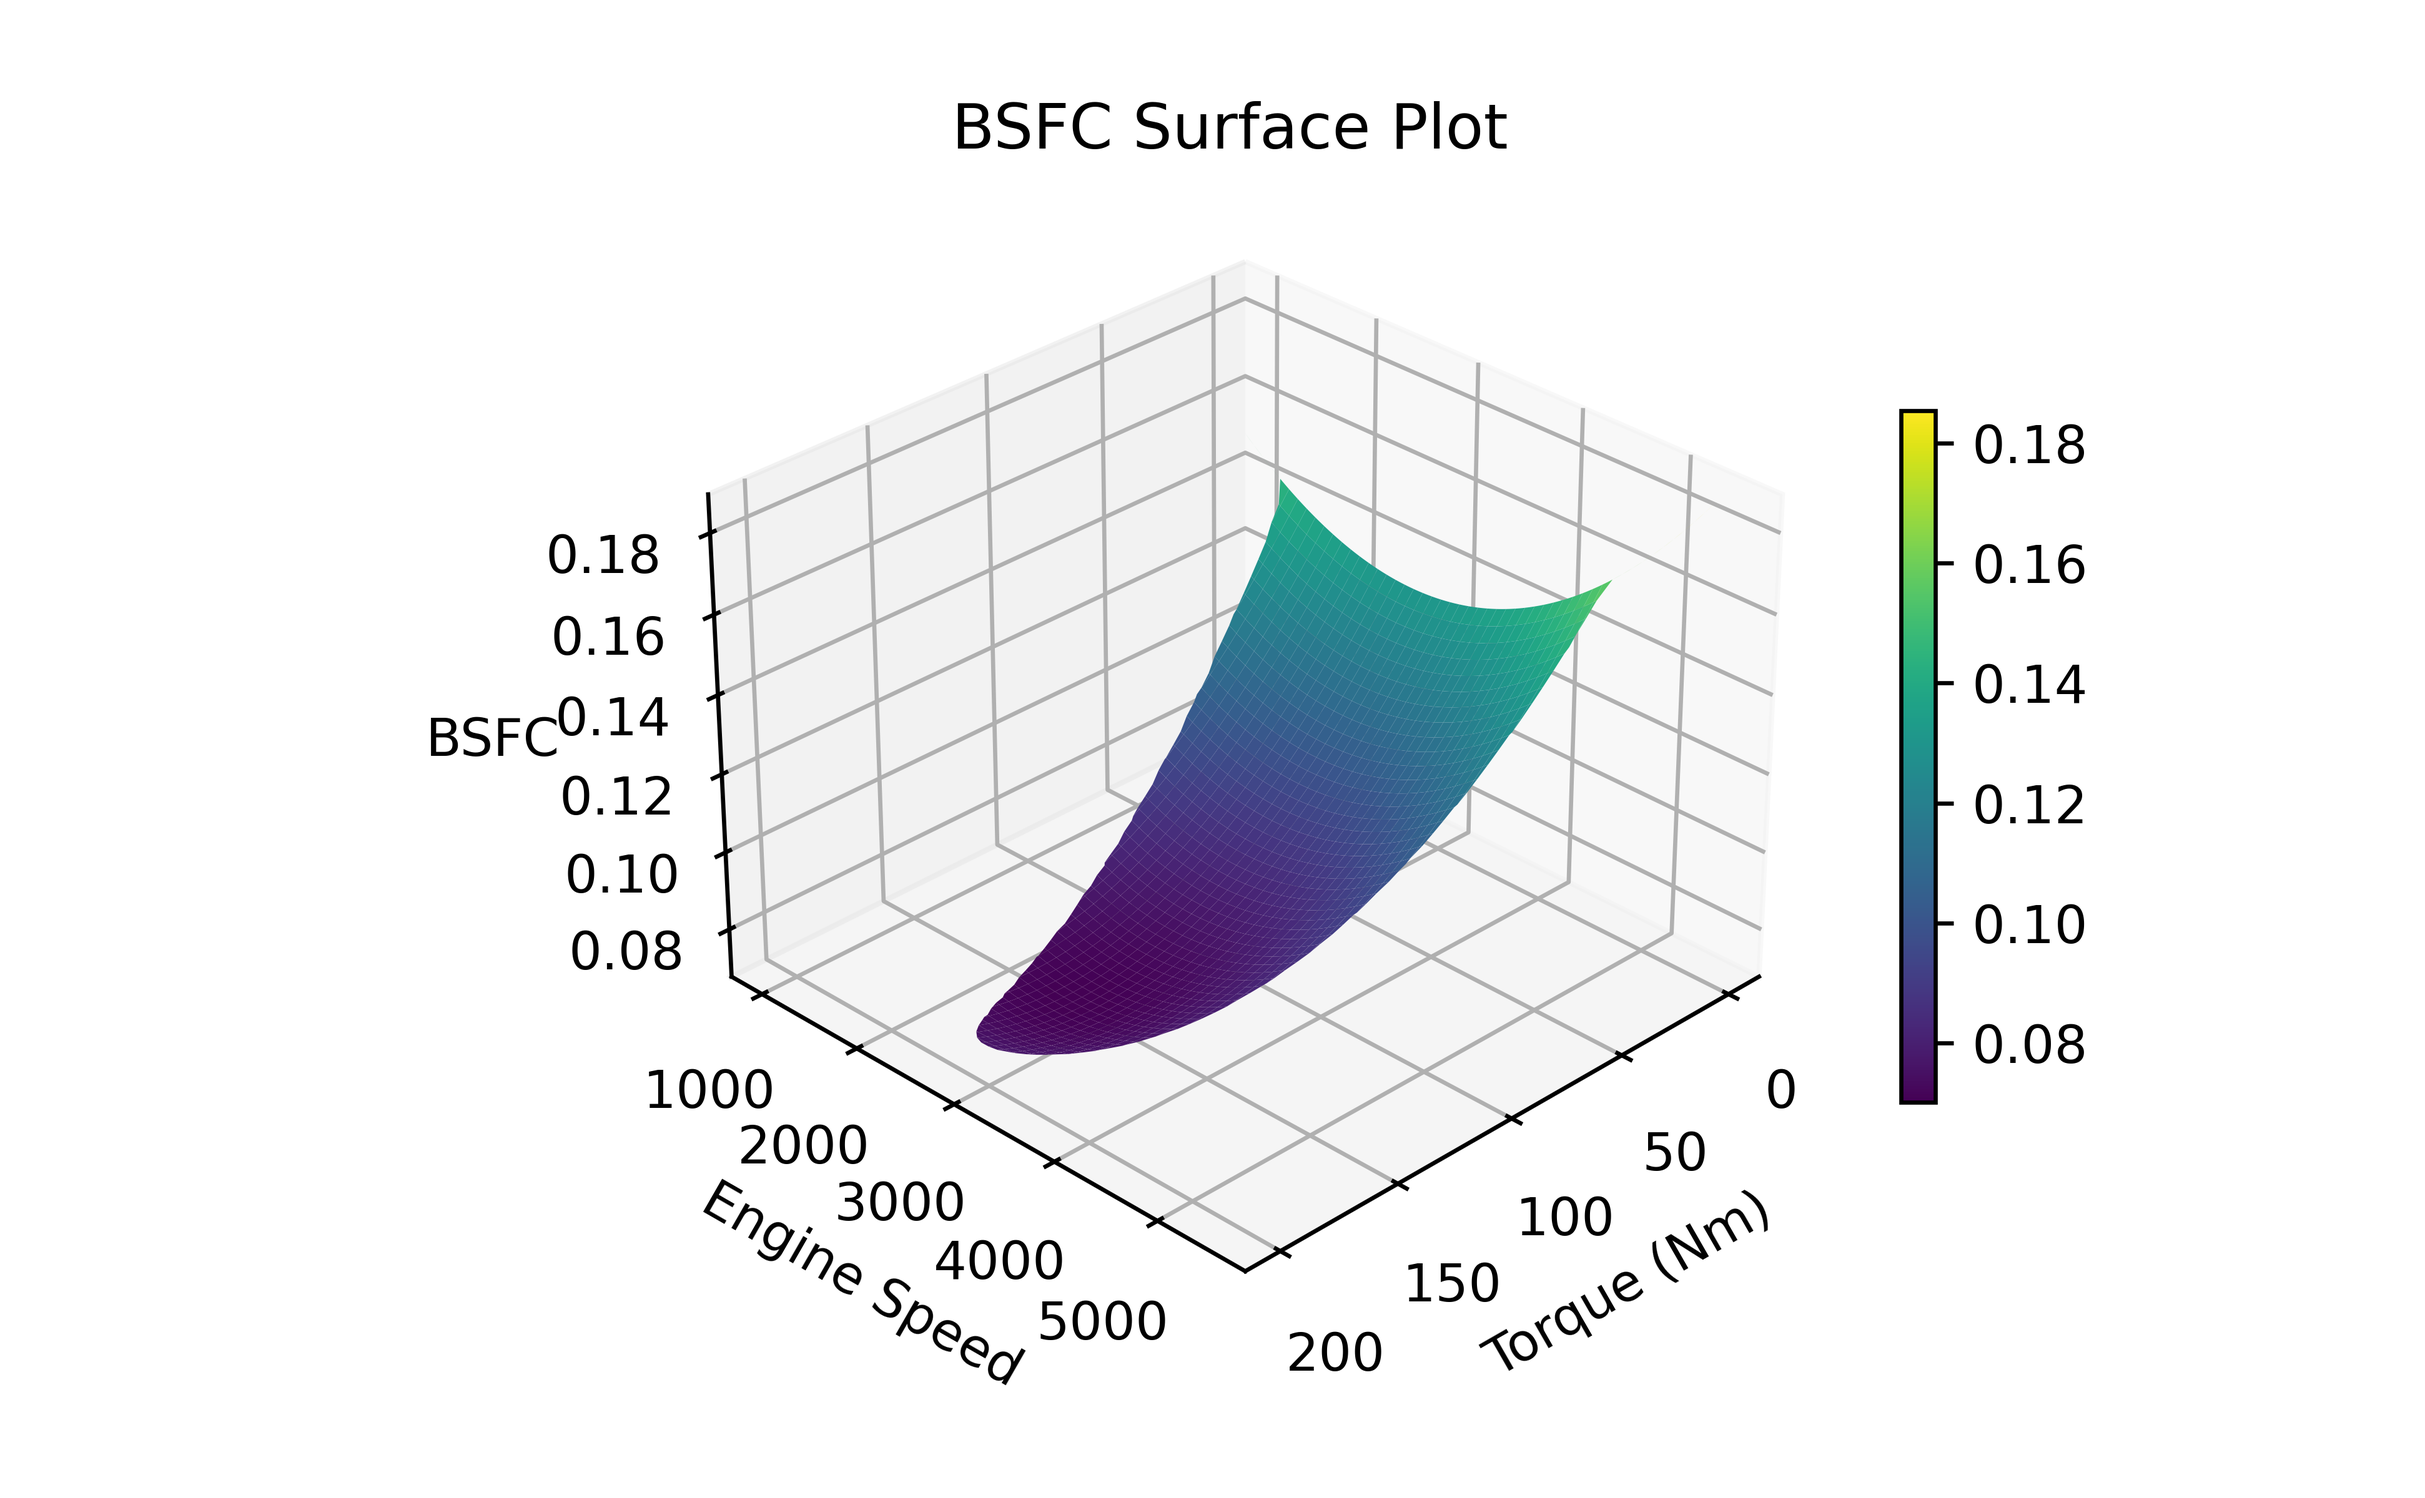
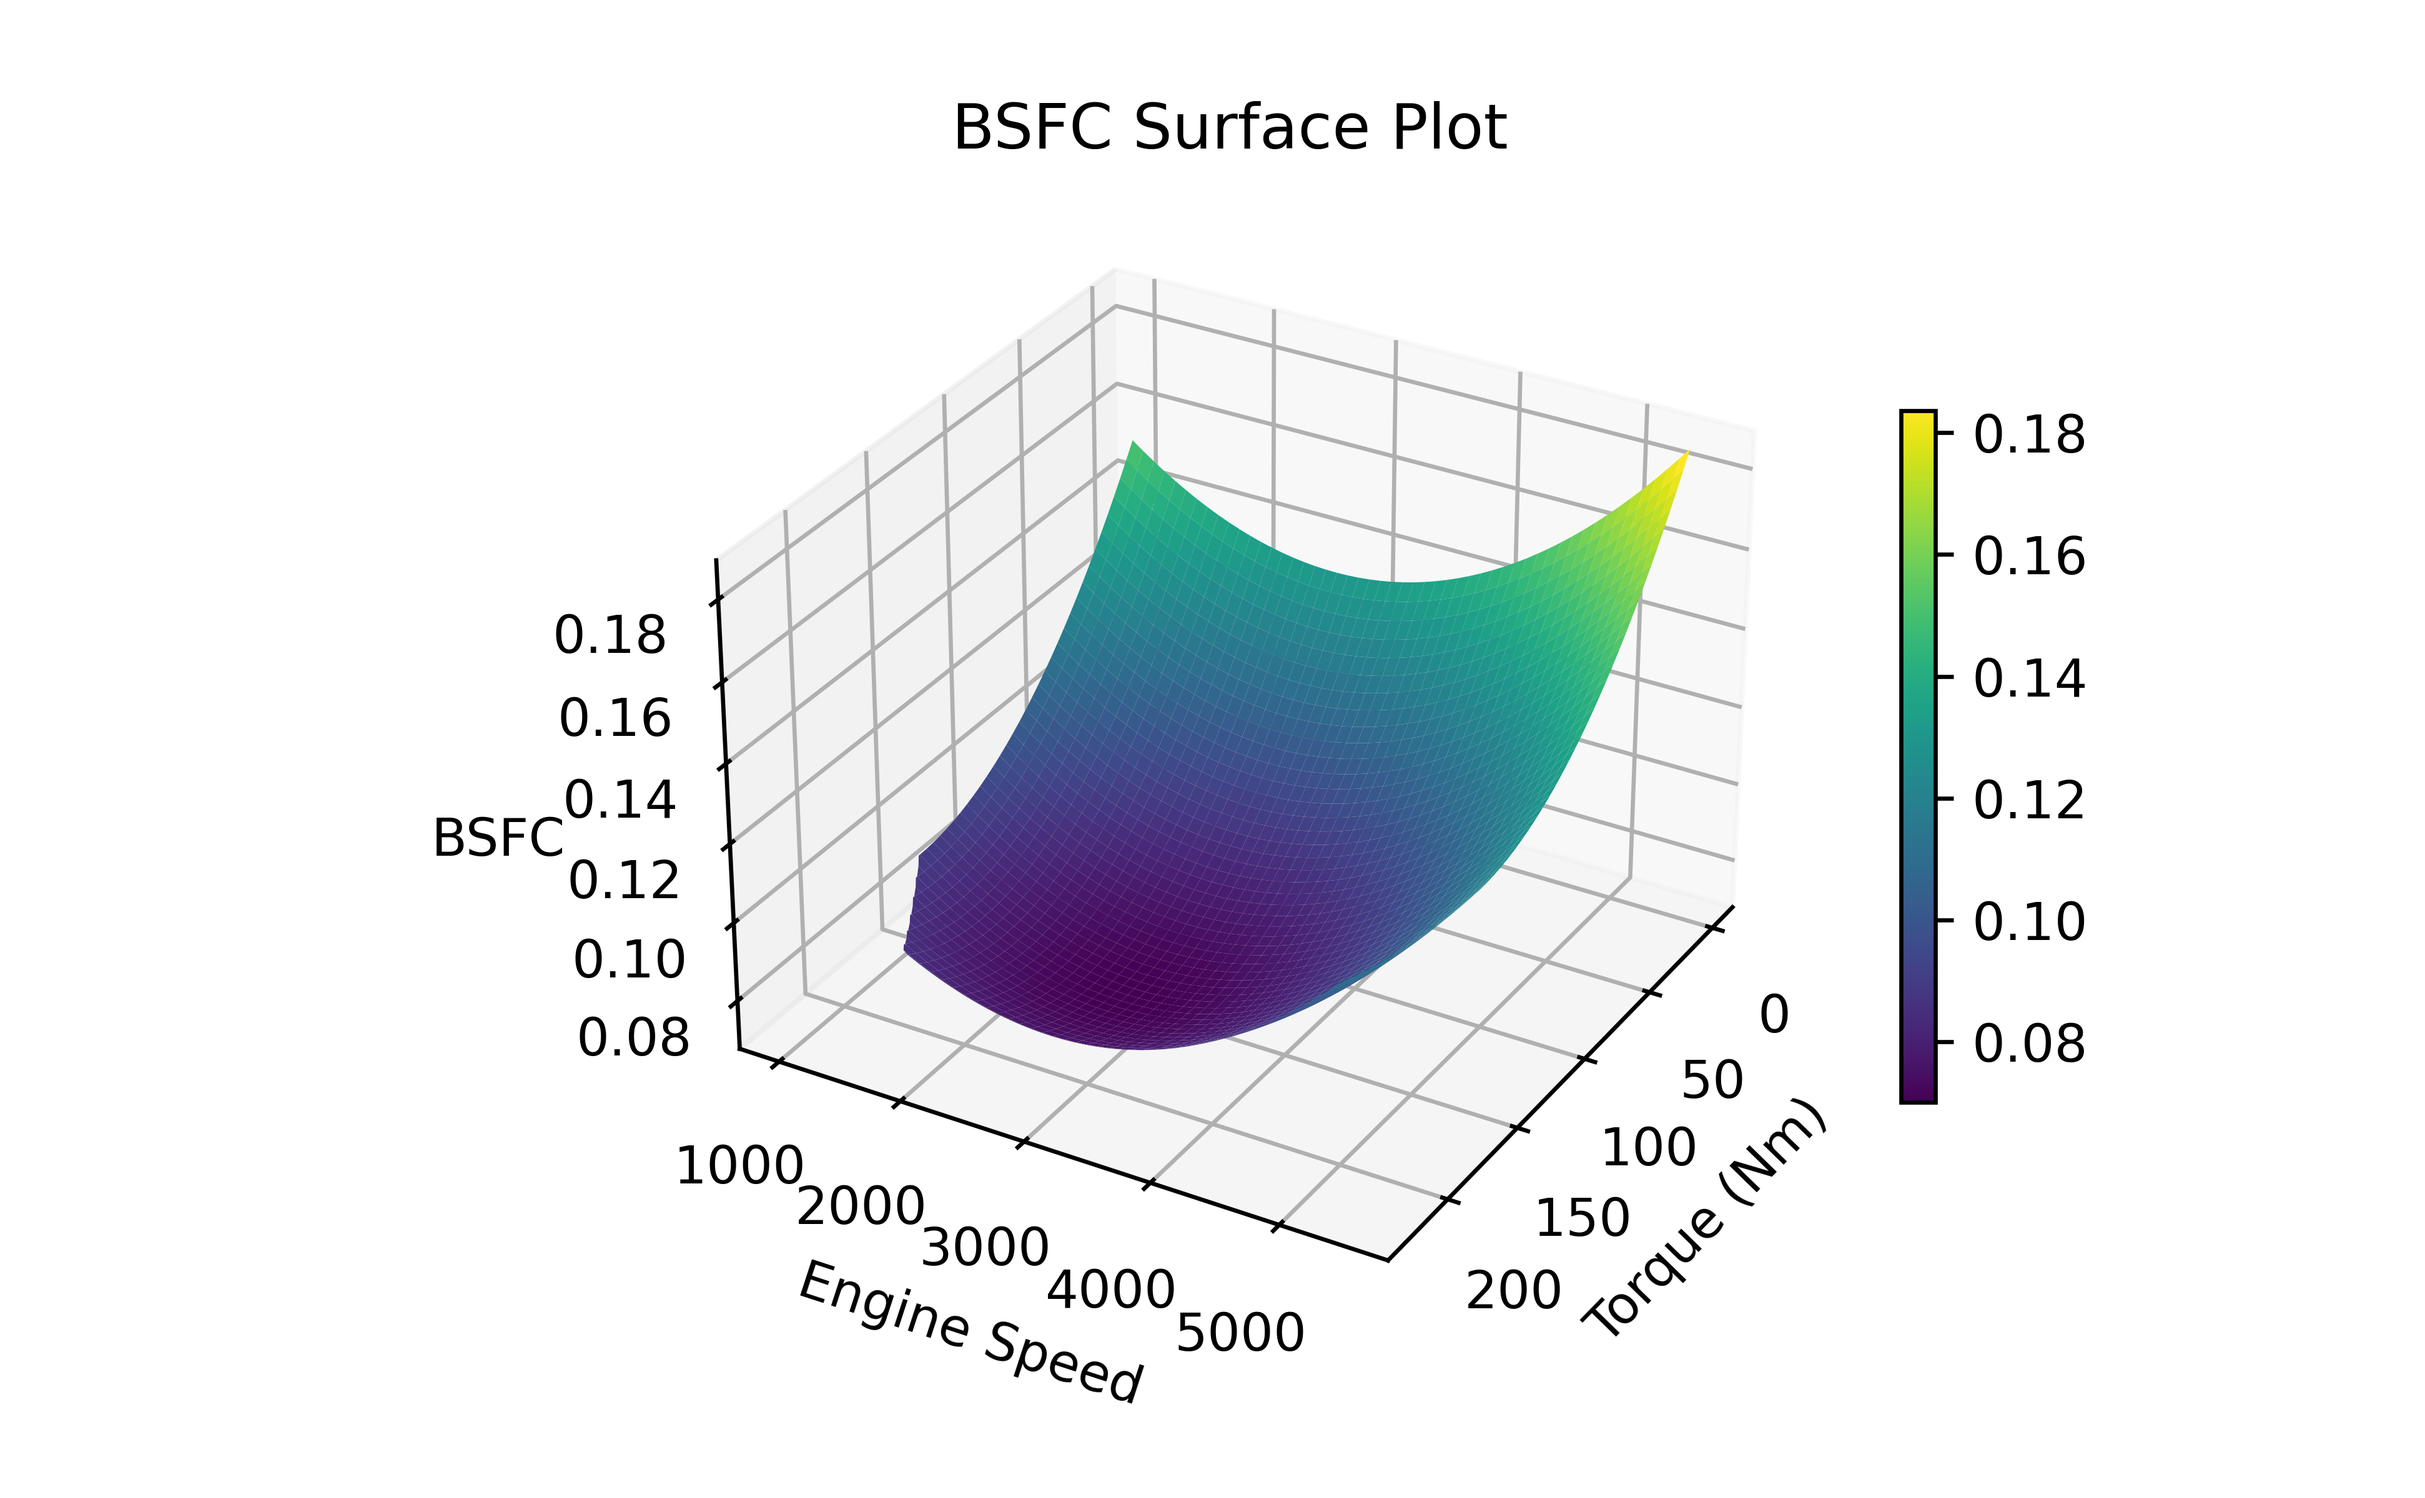
Fixed contour and surface plots

diff --git a/interactiveSim/Task1.py b/interactiveSim/Task1.py
@@ -13,10 +13,14 @@ beta = Amp * np.sin(2*np.pi/1000*x + 300)     # unit is degrees here!
 beta[(x < 500) & (beta < 0)] = 0    # initial 500m is flat
 
 N_e = np.linspace(1000, 5500, 300)
-T_e = np.linspace(0, 200, 300)
+T_e = np.linspace(0, 225, 300)
 N, T = np.meshgrid(N_e, T_e)
-T_max = 200 - 0.00008 * (N - 3000)**2
-T_max = np.clip(T_max, 0, None) 
+
+def tmax(N):
+    return np.where(N < 3250, 0.1 * N + 50, -0.1 * N + 700)
+
+T_max = tmax(N)
+T_max = np.clip(T_max, 0, 200)
 BSFC = ((N - 2700)/12000)**2 + ((T - 150)/600)**2 + 0.07
 BSFC_masked = np.ma.masked_where(T > T_max, BSFC)
 
